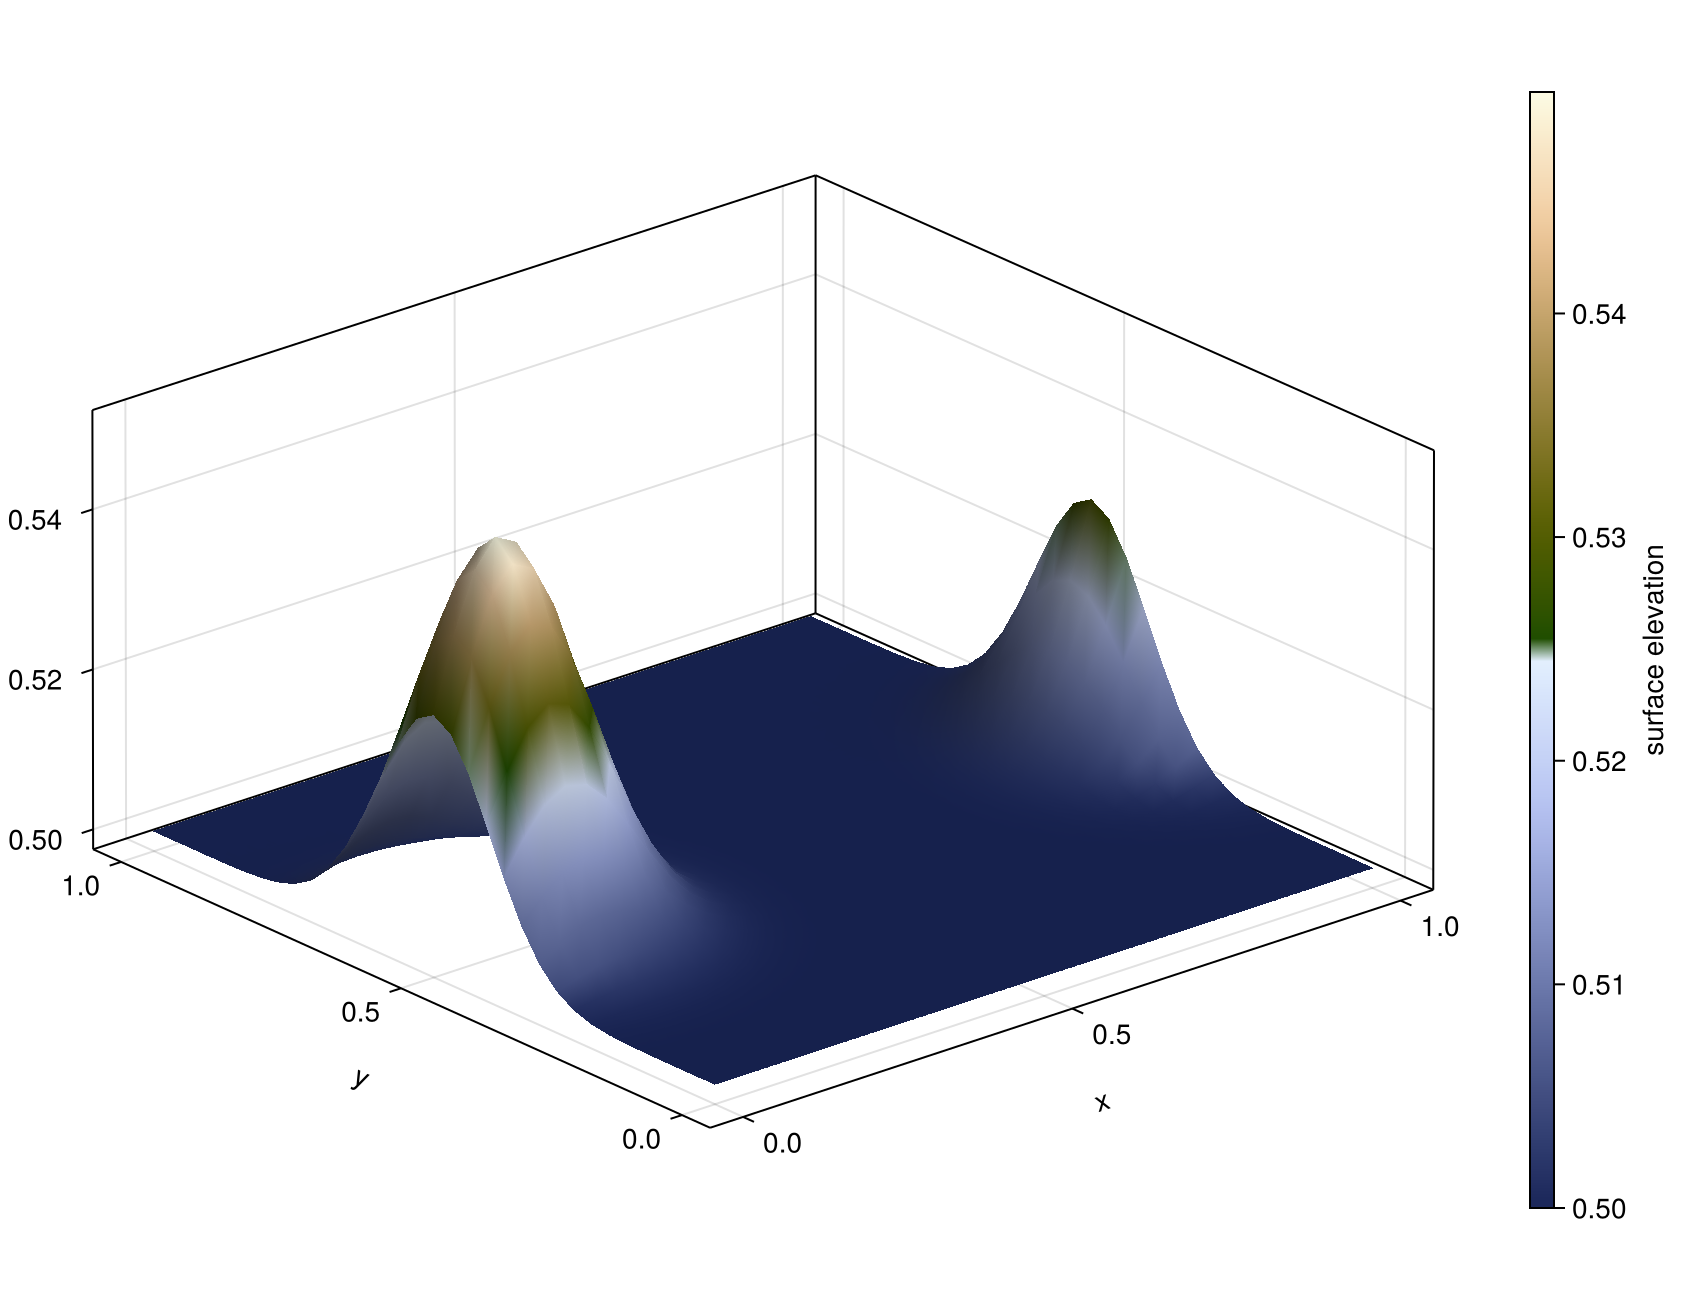
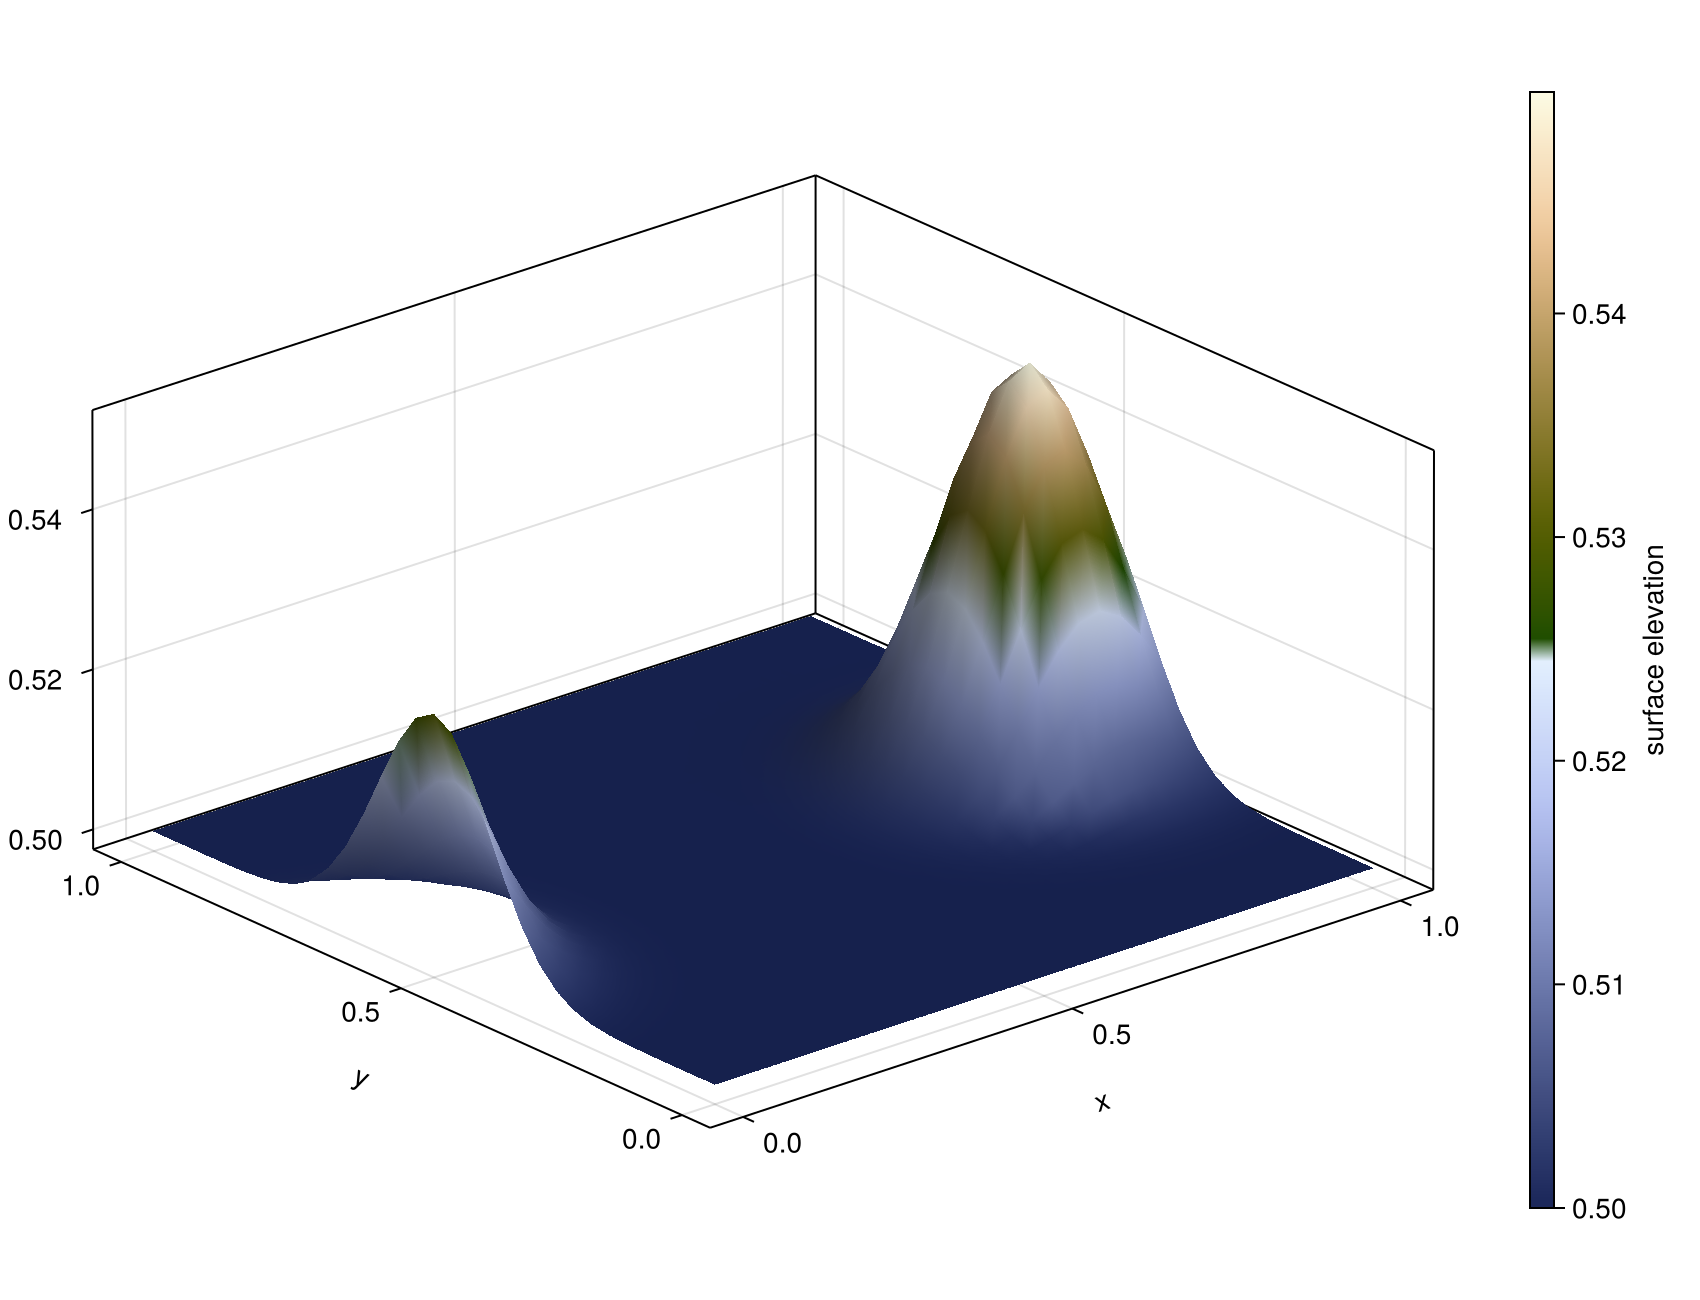
add periodic example and update figures

Changed region(s): [[0.4988, 0.2769, 0.6859, 0.6462], [0.1871, 0.4, 0.4365, 0.7692]]

diff --git a/docs/src/marker_surface.md b/docs/src/marker_surface.md
@@ -76,6 +76,7 @@ surf = init_marker_surface(backend, xv, yv, 0.5;
 
 Under periodic boundaries the ghost cells used by the advection stencil wrap to the opposite side instead of being linearly extrapolated, the slope-limiter's neighbour lookups use `mod1` indexing, and the redundant boundary nodes (`topo[1, :]` and `topo[end, :]`) are kept synchronised after every update. This follows the same convention used by `move_particles!(…; periodic_1, periodic_2, periodic_3)` in JustPIC's particle advection.
 
+The periodic figures below translate a Gaussian bump with a uniform `Vx = 0.2` for 25 steps of `dt = 0.05`. Centered at `x = 0.9` to begin with, it crosses the right boundary and re-enters on the left, ending near `x = 0.16` — the rise at both x edges of either figure is the same bump seen across the seam. `scripts/marker_surface_advection_periodic.jl` runs the same setup with a live GLMakie view.
 
 ![Initial periodic surface](assets/initial_condition_surface_periodic.png)
 
